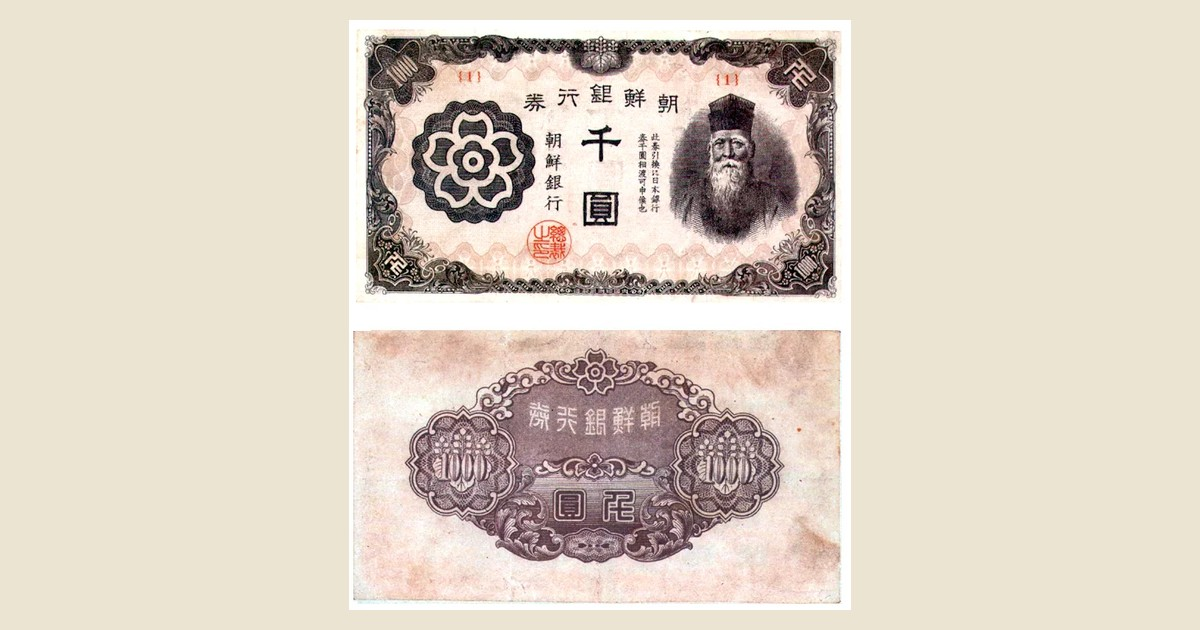
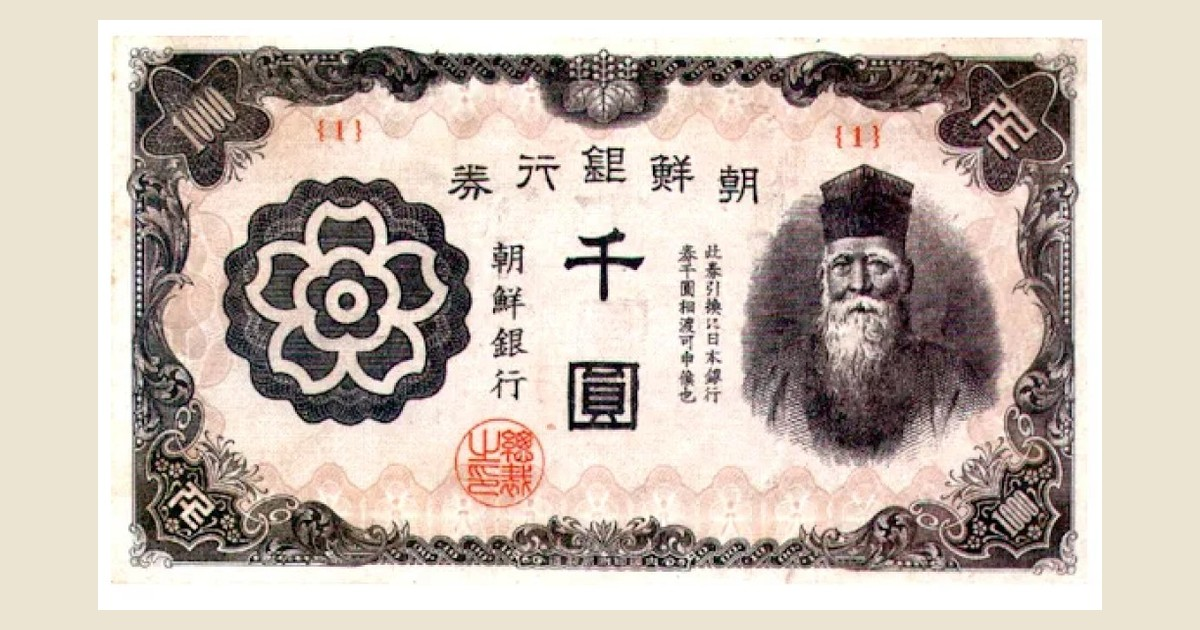
Update monetary-domination OG to front-only unissued 1000-won note.

diff --git a/VibeQuant/pages/columns/monetary-domination-colonial-independence/index.html b/VibeQuant/pages/columns/monetary-domination-colonial-independence/index.html
@@ -62,7 +62,7 @@
       </header>
       <div class="article-body prose"><h3>— 광복 직후 조선은행권의 마지막 수탈에서 CFA 프랑, 파운드 스털링까지</h3>
 <p>글: 김호광 (Dennis Kim), 싸이월드 前대표</p>
-<p><img src="https://vibequant.cc/og/monetary-domination-colonial-independence.jpg" alt="조선은행 한국인 직원이 유통을 막았던 미발행 천원권(朝鮮銀行券 千圓) — 앞·뒷면"></p>
+<p><img src="https://vibequant.cc/og/monetary-domination-colonial-independence.jpg" alt="조선은행 한국인 직원이 유통을 막았던 미발행 천원권(朝鮮銀行券 千圓)"></p>
 <h2>1. 들어가며 - 금융은 무력보다 오래 남는다</h2>
 <p>1945년 8월 15일, 정오의 항복 방송이 끝나자 조선에 살던 약 71만 명의 일본인들은 은행으로 몰려갔다.<sup><a href="#ref-1">[1]</a></sup> 정치적 해방은 선언되었지만 금융의 해방은 시작되지도 않았다. 조선은행을 비롯한 주요 금융기관은 9월 말에서 10월에 이르러서야 미군정의 통제 아래 들어갔고,<sup><a href="#ref-2">[2]</a></sup> 그 사이 약 45일 동안 조선의 발권은행은 여전히 일본인의 손에 있었다.</p>
 <p>그 45일 동안 조선은행권 발행고는 광복 직전 약 48–50억 원에서 8월 말 79.9억 원, 9월 말 86.8억 원으로 불어났다.<sup><a href="#ref-3">[3]</a></sup> 불과 한 달 반 만에 통화량이 거의 두 배가 된 것이다. 이 돈은 전쟁 물자를 사기 위해서도, 조선인의 생계를 위해서도 아니었다. 패전국 국민의 &#39;퇴각 자금&#39;이었다.</p>

diff --git a/02.Investment Idea Column/Key-Currency/Monetary-Domination-Following colonial-Independence.md b/02.Investment Idea Column/Key-Currency/Monetary-Domination-Following colonial-Independence.md
@@ -54,7 +54,7 @@ robots: index,follow
 
 글: 김호광 (Dennis Kim), 싸이월드 前대표
 
-![조선은행 한국인 직원이 유통을 막았던 미발행 천원권(朝鮮銀行券 千圓) — 앞·뒷면](./images/monetary-domination-colonial-independence.jpg)
+![조선은행 한국인 직원이 유통을 막았던 미발행 천원권(朝鮮銀行券 千圓)](./images/monetary-domination-colonial-independence.jpg)
 
 ## 1. 들어가며 - 금융은 무력보다 오래 남는다
 
